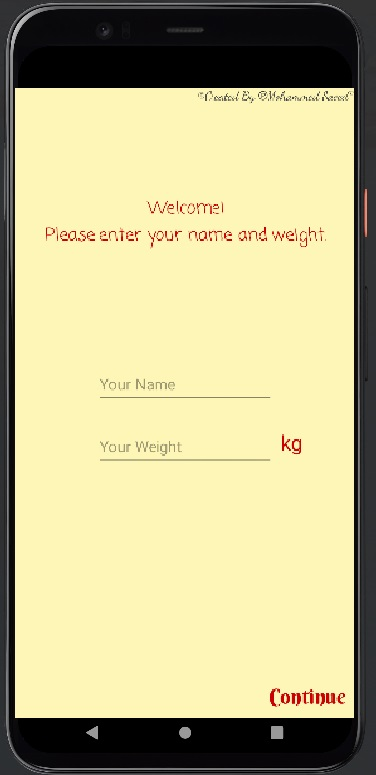
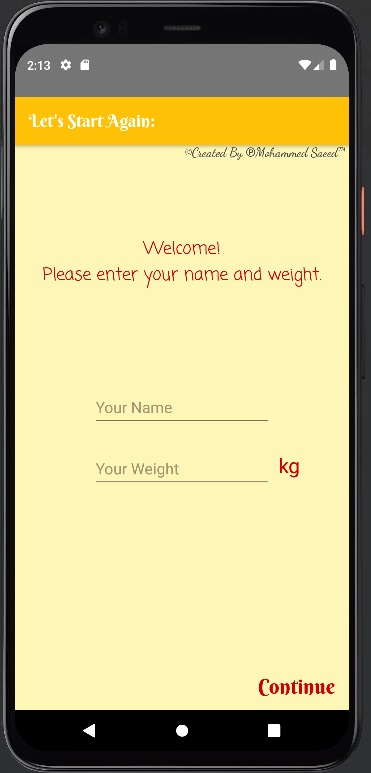
bug-fix & modifications

diff --git a/app/src/main/java/com/example/runningtrackerapp/ui/fragments/SetupFragment.kt b/app/src/main/java/com/example/runningtrackerapp/ui/fragments/SetupFragment.kt
@@ -10,6 +10,7 @@ import androidx.navigation.NavOptions
 import androidx.navigation.fragment.findNavController
 import com.example.runningtrackerapp.R
 import com.example.runningtrackerapp.databinding.FragmentSetupBinding
+import com.example.runningtrackerapp.utils.Constants
 import com.example.runningtrackerapp.utils.Constants.KEY_FIRST_TIME_TOGGLE
 import com.example.runningtrackerapp.utils.Constants.KEY_NAME
 import com.example.runningtrackerapp.utils.Constants.KEY_WEIGHT
@@ -33,16 +34,11 @@ class SetupFragment: Fragment(R.layout.fragment_setup) {
     private val bind get() = _bind
 
 
-/*
-    override fun onViewCreated(view: View, savedInstanceState: Bundle?) {
-        super.onViewCreated(view, savedInstanceState)
-        _bind = FragmentSetupBinding.inflate(layoutInflater) }
-*/
-
     override fun onCreateView(inflater: LayoutInflater,
                               container: ViewGroup?,
                               savedInstanceState: Bundle?): View {
         _bind = FragmentSetupBinding.inflate(inflater, container, false)
+        val nameFromSetting: String? = sharedPref.getString(Constants.KEY_NAME, "")
 
 
         if (!isFirstTimeUserOpen){
@@ -85,7 +81,7 @@ class SetupFragment: Fragment(R.layout.fragment_setup) {
                 .putBoolean(KEY_FIRST_TIME_TOGGLE, false)
                 .apply()
 
-            val toolbarText: String = "Lets go, $name"
+            val toolbarText: String = "Let's go, $name"
             requireActivity().toolbar_title.text = toolbarText
 
             true

diff --git a/app/src/main/java/com/example/runningtrackerapp/ui/fragments/SettingFragment.kt b/app/src/main/java/com/example/runningtrackerapp/ui/fragments/SettingFragment.kt
@@ -10,6 +10,7 @@ import com.example.runningtrackerapp.R
 import com.example.runningtrackerapp.databinding.FragmentSettingBinding
 import com.example.runningtrackerapp.utils.Constants.KEY_NAME
 import com.example.runningtrackerapp.utils.Constants.KEY_WEIGHT
+import com.example.runningtrackerapp.utils.TrackingUtility.hideKeyboard
 import com.google.android.material.snackbar.Snackbar
 import dagger.hilt.android.AndroidEntryPoint
 import kotlinx.android.synthetic.main.activity_main.*
@@ -35,9 +36,10 @@ class SettingFragment: Fragment(R.layout.fragment_setting) {
 
         bind.btnApplyChanges.setOnClickListener {
             val success: Boolean = applyChangesIntoSharedPref()
-            if (success)
+            if (success) {
+                hideKeyboard()
                 Snackbar.make(bind.root, "Change's Saved", Snackbar.LENGTH_LONG).show()
-            else
+            }            else
                 Snackbar.make(bind.root, " plz fill out all fields behind! ", Snackbar.LENGTH_LONG).show()
         }
 
@@ -64,7 +66,7 @@ class SettingFragment: Fragment(R.layout.fragment_setting) {
             .putString(KEY_NAME, nameFromSetting)
             .putFloat(KEY_WEIGHT, weightFromSetting.toFloat())
             .apply()
-        val toolbarTxtFromSetting: String = "Let's go: $nameFromSetting"
+        val toolbarTxtFromSetting = "Let's go: $nameFromSetting"
         requireActivity().toolbar_title.text = toolbarTxtFromSetting
 
         return true

diff --git a/app/src/main/java/com/example/runningtrackerapp/utils/TrackingUtility.kt b/app/src/main/java/com/example/runningtrackerapp/utils/TrackingUtility.kt
@@ -1,9 +1,13 @@
 package com.example.runningtrackerapp.utils
 
 import android.Manifest
+import android.app.Activity
 import android.content.Context
 import android.location.Location
 import android.os.Build
+import android.view.View
+import android.view.inputmethod.InputMethodManager
+import androidx.fragment.app.Fragment
 import com.example.runningtrackerapp.services.PolyLine
 import com.google.android.gms.maps.model.LatLng
 import pub.devrel.easypermissions.EasyPermissions
@@ -68,4 +72,18 @@ object TrackingUtility {
                 "${if (seconds < 10)"0" else ""}$seconds: " +
                 "${if (milliSeconds < 10)"0" else ""}$milliSeconds"
     }
+
+    fun Fragment.hideKeyboard() {
+        view?.let { activity?.hideKeyboard(it) }
+    }
+
+    fun Activity.hideKeyboard() {
+        hideKeyboard(currentFocus ?: View(this))
+    }
+
+    fun Context.hideKeyboard(view: View) {
+        val inputMethodManager = getSystemService(Activity.INPUT_METHOD_SERVICE) as InputMethodManager
+        inputMethodManager.hideSoftInputFromWindow(view.windowToken, 0)
+    }
+
 }

diff --git a/app/src/main/java/com/example/runningtrackerapp/ui/MainActivity.kt b/app/src/main/java/com/example/runningtrackerapp/ui/MainActivity.kt
@@ -14,6 +14,7 @@ import com.example.runningtrackerapp.databinding.ActivityMainBinding
 import com.example.runningtrackerapp.utils.Constants
 import com.example.runningtrackerapp.utils.Constants.ACTION_SHOW_TRACKING_FRAGMENT
 import dagger.hilt.android.AndroidEntryPoint
+import kotlinx.android.synthetic.main.activity_main.*
 import kotlinx.android.synthetic.main.layout_success_dailog.view.*
 import javax.inject.Inject
 
@@ -35,7 +36,8 @@ class MainActivity : AppCompatActivity() {
         val nameFromSetting: String? = sharedPref.getString(Constants.KEY_NAME, "")
 
         setSupportActionBar(bind.toolbar)
-        bind.toolbarTitle.text = "Let's Start Again: $nameFromSetting"
+        if (nameFromSetting!!.isEmpty()) bind.toolbarTitle.text = "Runner Tracking Station"
+        else bind.toolbarTitle.text = "Let's Start Again: $nameFromSetting"
 
         trackingFragmentNavigate(intent)
 

diff --git a/README.md b/README.md
@@ -14,6 +14,8 @@
 > :arrow_right: Lap start Time.  <br/>
 > :arrow_right: Calculate Lap average speed.  <br/>
 > :arrow_right: Lap map screen-shot.  <br/>
+><br/> 
+>***::hint***: App constructed with interactive text Tool-Bar and animated splash-screen.
 
 
 <br/> 
@@ -106,3 +108,7 @@
 
  1. ![1](/screen-shots/1.jpg) 2. ![2](/screen-shots/2.jpg) 3. ![3](/screen-shots/3.jpg) 4. ![4](/screen-shots/4.jpg) 5. ![5](/screen-shots/5.jpg) 6. ![6](/screen-shots/6.jpg) 7. ![7](/screen-shots/7.jpg) 8. ![8](/screen-shots/8.jpg) 9. ![9](/screen-shots/9.jpg) 10. ![10](/screen-shots/10.jpg) 11. ![11](/screen-shots/11.jpg)
  
+
+ <br/>
+ <br/>
+
